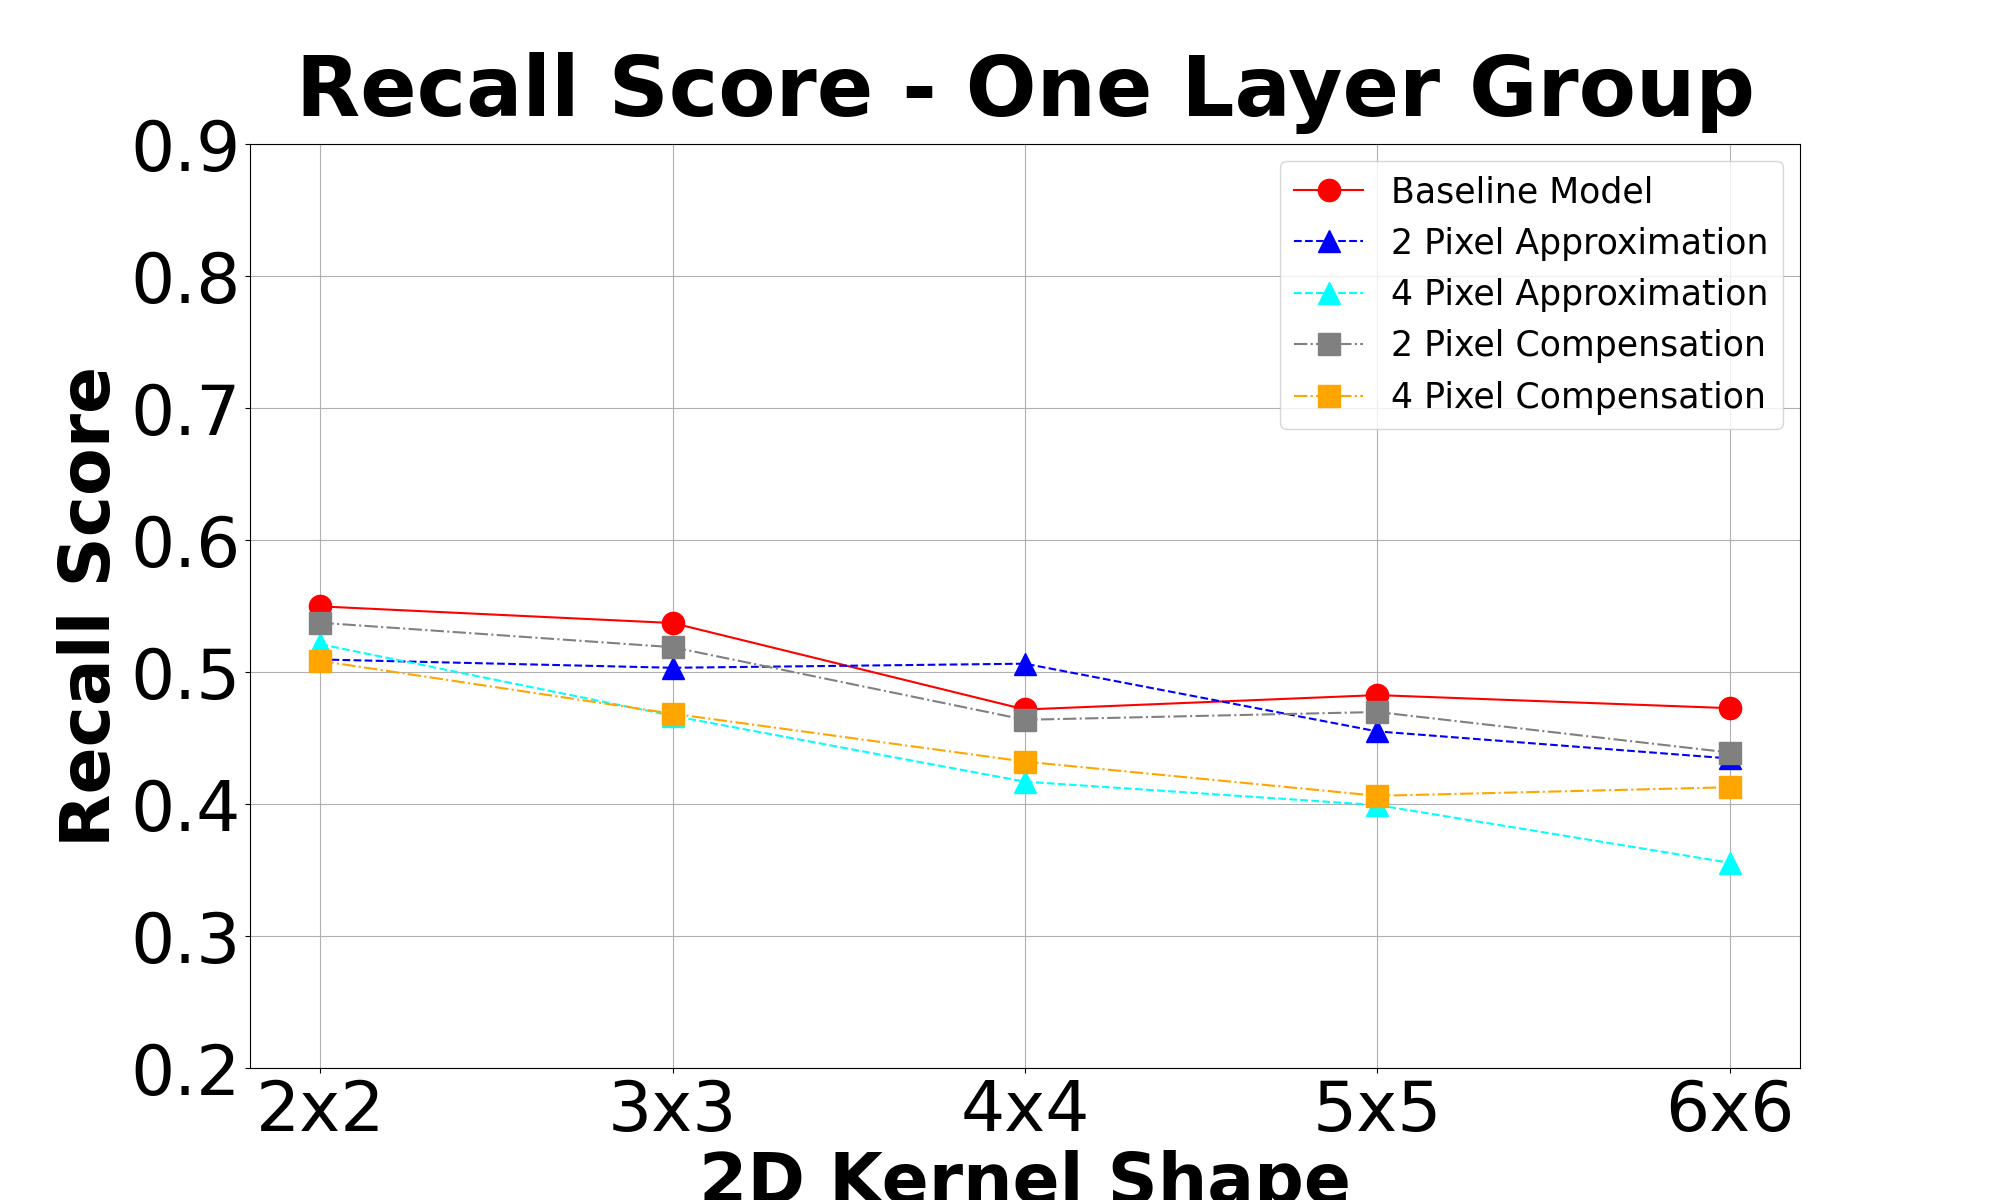
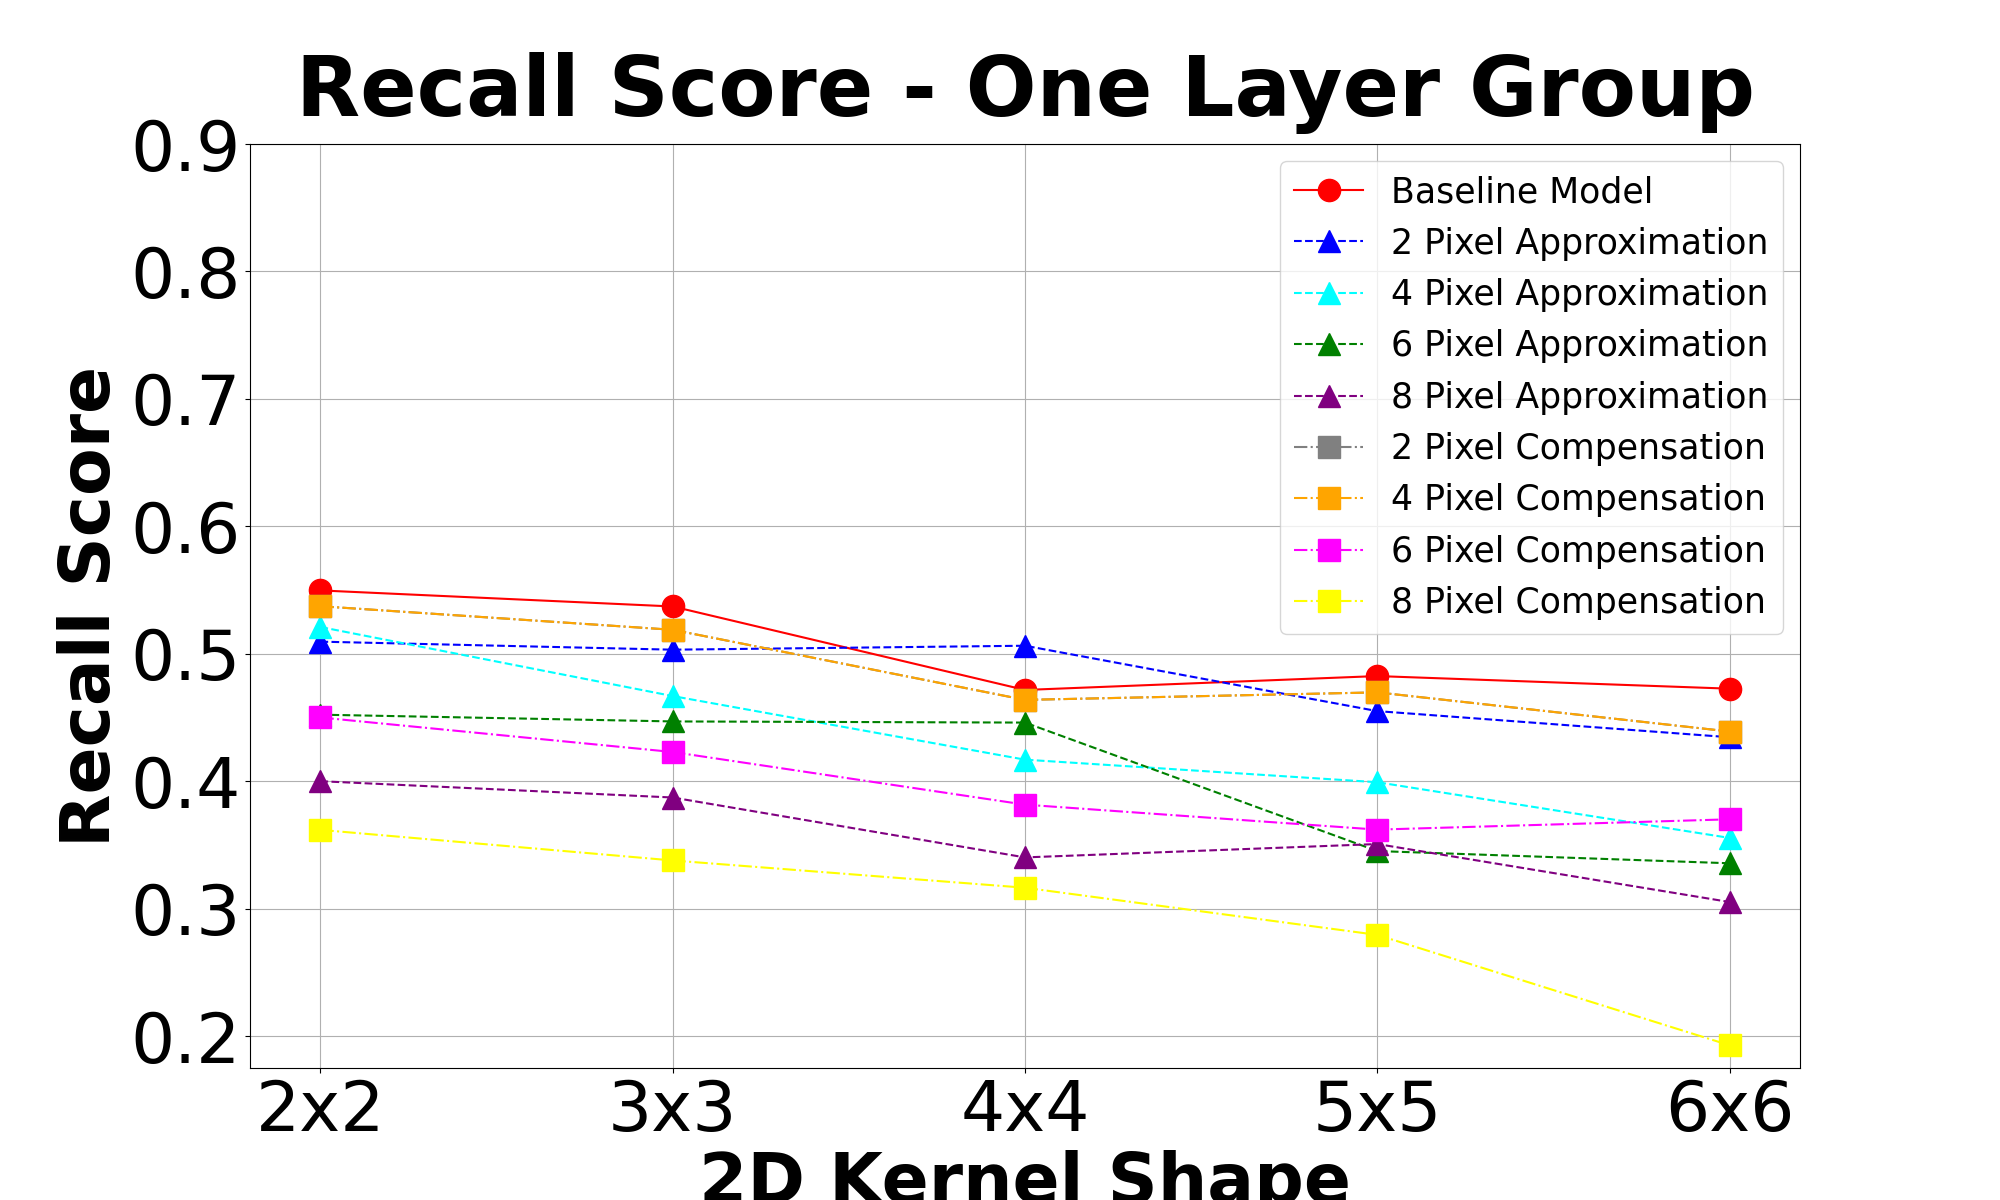
2 July 2020
- Updated Plots
- Created visualizations for 3 layer groups

diff --git a/Error-Compensation-Attacks/Error-Compensation-Analysis/ERR_COMP_VIS_MAIN.py b/Error-Compensation-Attacks/Error-Compensation-Analysis/ERR_COMP_VIS_MAIN.py
@@ -23,8 +23,8 @@ if __name__ == '__main__':
     expt_path = 'C:/Users/Landon/Documents/GitHub/Convolutional-Neural-Networks/Presentations/Error-Compensation-Attacks/'
 
     CSV_FILES = [   'Baseline.csv',
-                 'Approx_2.csv','Approx_4.csv','Approx_8.csv',
-                 'Comp_2.csv','Comp_4.csv','Comp_8.csv'
+                 'Approx_2.csv','Approx_4.csv','Approx_6.csv','Approx_8.csv',
+                 'Comp_2.csv','Comp_4.csv','Comp_6.csv','Comp_8.csv'
                  ]
 
     files_objs = []
@@ -35,7 +35,7 @@ if __name__ == '__main__':
 
     os.chdir(expt_path)
 
-
+    """
     X_train,y_train,X_test,y_test = Vis_utils.Load_CIFAR10()
     X = X_test[:10]
 
@@ -65,13 +65,13 @@ if __name__ == '__main__':
     X4 = CompLayer2.call(X4)
     Vis_utils.Plot_Matrix(X2[1],'_4CompShip',save=True)
     Vis_utils.Plot_Matrix(X2[9],'_4CompAuto',save=True)
-
-
-
     """
+
     labs=[  'Baseline Model',
-          '2 Pixel Approximation','4 Pixel Approximation','8 Pixel Approximation',
-          '2 Pixel Compensation','4 Pixel Compensation','8 Pixel Compensation'
+          '2 Pixel Approximation','4 Pixel Approximation',
+          '6 Pixel Approximation','8 Pixel Approximation',
+          '2 Pixel Compensation', '4 Pixel Compensation',
+          '6 Pixel Compensation', '8 Pixel Compensation'
           ]
 
     # Loss Function values
@@ -79,16 +79,20 @@ if __name__ == '__main__':
                         ylab='Loss Function Value',title="Loss Value - One Layer Group",save=True)
     Vis_utils.Plot_Metric(files_objs,'double_layer',metric='Average Loss',labs=labs,
                         ylab='Loss Function Value',title="Loss Value - Two Layer Groups",save=True)
-
+    Vis_utils.Plot_Metric(files_objs,'triple_layer',metric='Average Loss',labs=labs,
+                        ylab='Loss Function Value',title="Loss Value - Three Layer Groups",save=True)
     # Precision Score Values
     Vis_utils.Plot_Metric(files_objs,'single_layer',metric='Average Precision',labs=labs,
                         ylab='Precision Score',title="Precision Score - One Layer Group",save=True)
     Vis_utils.Plot_Metric(files_objs,'double_layer',metric='Average Precision',labs=labs,
                         ylab='Precision Score',title="Precision Score - Two Layer Groups",save=True)
-    
+    Vis_utils.Plot_Metric(files_objs,'triple_layer',metric='Average Precision',labs=labs,
+                        ylab='Precision Score',title="Precision Score - Three Layer Groups",save=True)
+
     # Recall Score Values
     Vis_utils.Plot_Metric(files_objs,'single_layer',metric='Average Recall',labs=labs,
                         ylab='Recall Score',title="Recall Score - One Layer Group",save=True)
     Vis_utils.Plot_Metric(files_objs,'double_layer',metric='Average Recall',labs=labs,
                         ylab='Recall Score',title="Recall Score - Two Layer Groups",save=True)
-    """
+    Vis_utils.Plot_Metric(files_objs,'triple_layer',metric='Average Recall',labs=labs,
+                        ylab='Recall Score',title="Recall Score - Three Layer Groups",save=True)

diff --git a/Error-Compensation-Attacks/Error-Compensation-Analysis/ERR_COMP_VIS_Utilities.py b/Error-Compensation-Attacks/Error-Compensation-Analysis/ERR_COMP_VIS_Utilities.py
@@ -53,8 +53,8 @@ class filedata ():
      
     def split_X (self):
         """ Split Frame X Based on Model Depths """
-        layers = ['single_layer','double_layer']
-        idxs = [np.arange(0,5),np.arange(5,10)]
+        layers = ['single_layer','double_layer','triple_layer']
+        idxs = [np.arange(0,5),np.arange(5,10),np.arange(10,15)]
 
         for n_layers,pts in zip(layers,idxs):
             data = self.X.loc[pts]
@@ -64,8 +64,8 @@ class filedata ():
         
     def make_arrays (self):
         """ Make Data Arrays for Plotting """
-        n_layers = ['single_layer','double_layer',]
-        idxs = [np.arange(0,5),np.arange(5,10),]
+        n_layers = ['single_layer','double_layer','triple_layer']
+        idxs = [np.arange(0,5),np.arange(5,10),np.arange(10,15)]
         
         for col in self.X.columns:              
             column_data = self.X[col].to_numpy()
@@ -195,11 +195,13 @@ def Plot_Metric (objs=[],attrbs='',metric='',ylab='',labs=[],title='',save=False
 
     plt.plot(kernel_sides,data[1],color='blue',linestyle='--',marker='^',ms=16,label=labs[1])
     plt.plot(kernel_sides,data[2],color='cyan',linestyle='--',marker='^',ms=16,label=labs[2])
-    #plt.plot(kernel_sides,data[3],color='green',linestyle='--',marker='^',ms=16,label=labs[3])
+    plt.plot(kernel_sides,data[3],color='green',linestyle='--',marker='^',ms=16,label=labs[3])
+    plt.plot(kernel_sides,data[4],color='purple',linestyle='--',marker='^',ms=16,label=labs[4])
 
-    plt.plot(kernel_sides,data[4],color='gray',linestyle='-.',marker='s',ms=16,label=labs[4])
-    plt.plot(kernel_sides,data[5],color='orange',linestyle='-.',marker='s',ms=16,label=labs[5])
-    #plt.plot(kernel_sides,data[6],color='magenta',linestyle='-.',marker='s',ms=16,label=labs[6])
+    plt.plot(kernel_sides,data[5],color='gray',linestyle='-.',marker='s',ms=16,label=labs[5])
+    plt.plot(kernel_sides,data[5],color='orange',linestyle='-.',marker='s',ms=16,label=labs[6])
+    plt.plot(kernel_sides,data[7],color='magenta',linestyle='-.',marker='s',ms=16,label=labs[7])
+    plt.plot(kernel_sides,data[8],color='yellow',linestyle='-.',marker='s',ms=16,label=labs[8])
 
     plt.xticks(kernel_sides,['2x2','3x3','4x4','5x5','6x6'],size=50)
     if metric in ['Average Precision','Average Recall']:

diff --git a/Error-Compensation-Attacks/Error-Compensation-Attacks_v0/ERR_COMP_Utilities.py b/Error-Compensation-Attacks/Error-Compensation-Attacks_v0/ERR_COMP_Utilities.py
@@ -161,7 +161,6 @@ def Plot_Sample (X,y,save=False,show=True):
     except:
         plt.imshow(X)
         
-
     plt.xticks([])
     plt.yticks([])
 
